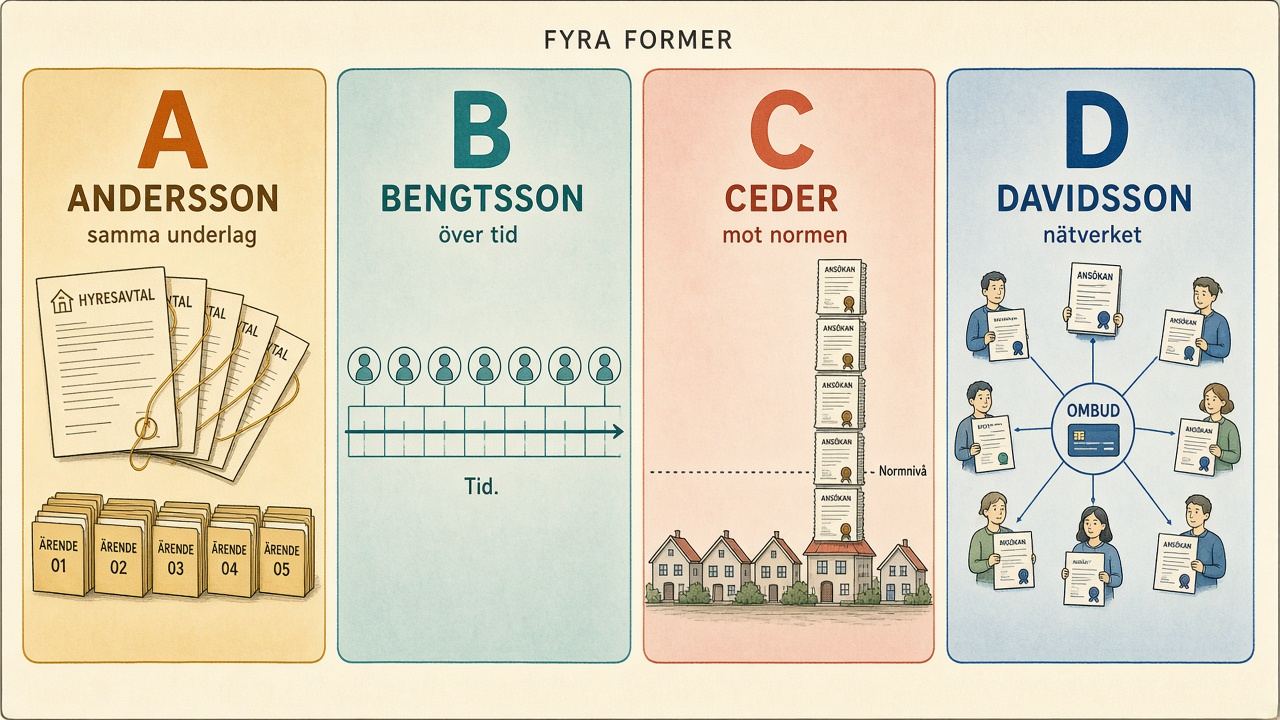
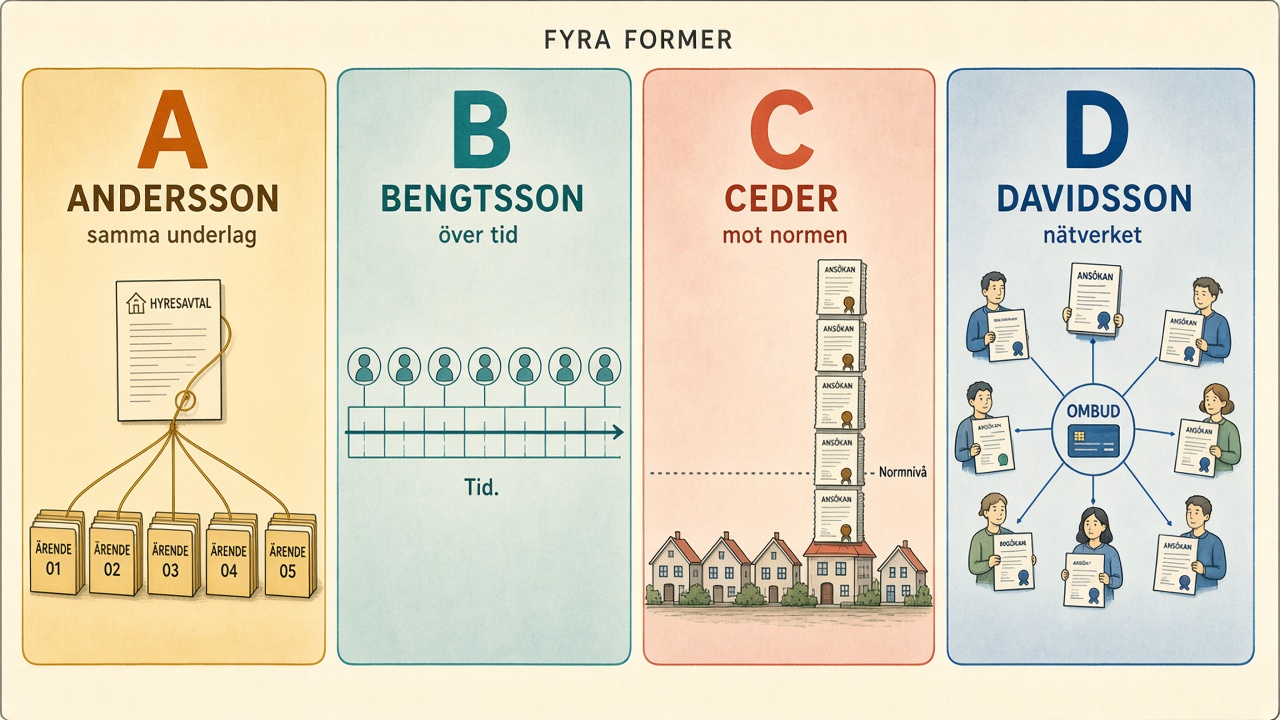
Uppdatera README.md med en ny minnesbild och rättelse av panel A, vilket klargör att ett hyresavtal leder till flera ärenden. Även ny bild `fyra-former.png` tillagd för visuell referens.

diff --git a/intervju/Forsakringskassan_202609/README.md b/intervju/Forsakringskassan_202609/README.md
@@ -4,7 +4,7 @@
 
 > Underlag för att förbereda intervjun till Controller till Bidragsbrottsavdelningens stab på Försäkringskassan. Fokus: produktionsstyrning och att upptäcka bidragsfusk hos sökande — inte hos handläggare.
 
-> Här skedde en uppdatering 2026-09-22: minnesbilden `Bilder/fyra-former.png` lades till, så de fyra formerna syns direkt på den här sidan.
+> Här skedde en uppdatering 2026-09-22: minnesbilden `Bilder/fyra-former.png` lades till, så de fyra formerna syns direkt på den här sidan. Samma dag rättades panel A: ett enda hyresavtal leder till flera ärenden, inte flera avtal.
 
 ![Fyra former av bidragsfusk: A Andersson samma underlag, B Bengtsson över tid, C Ceder mot normen, D Davidsson nätverket](Bilder/fyra-former.png)
 
